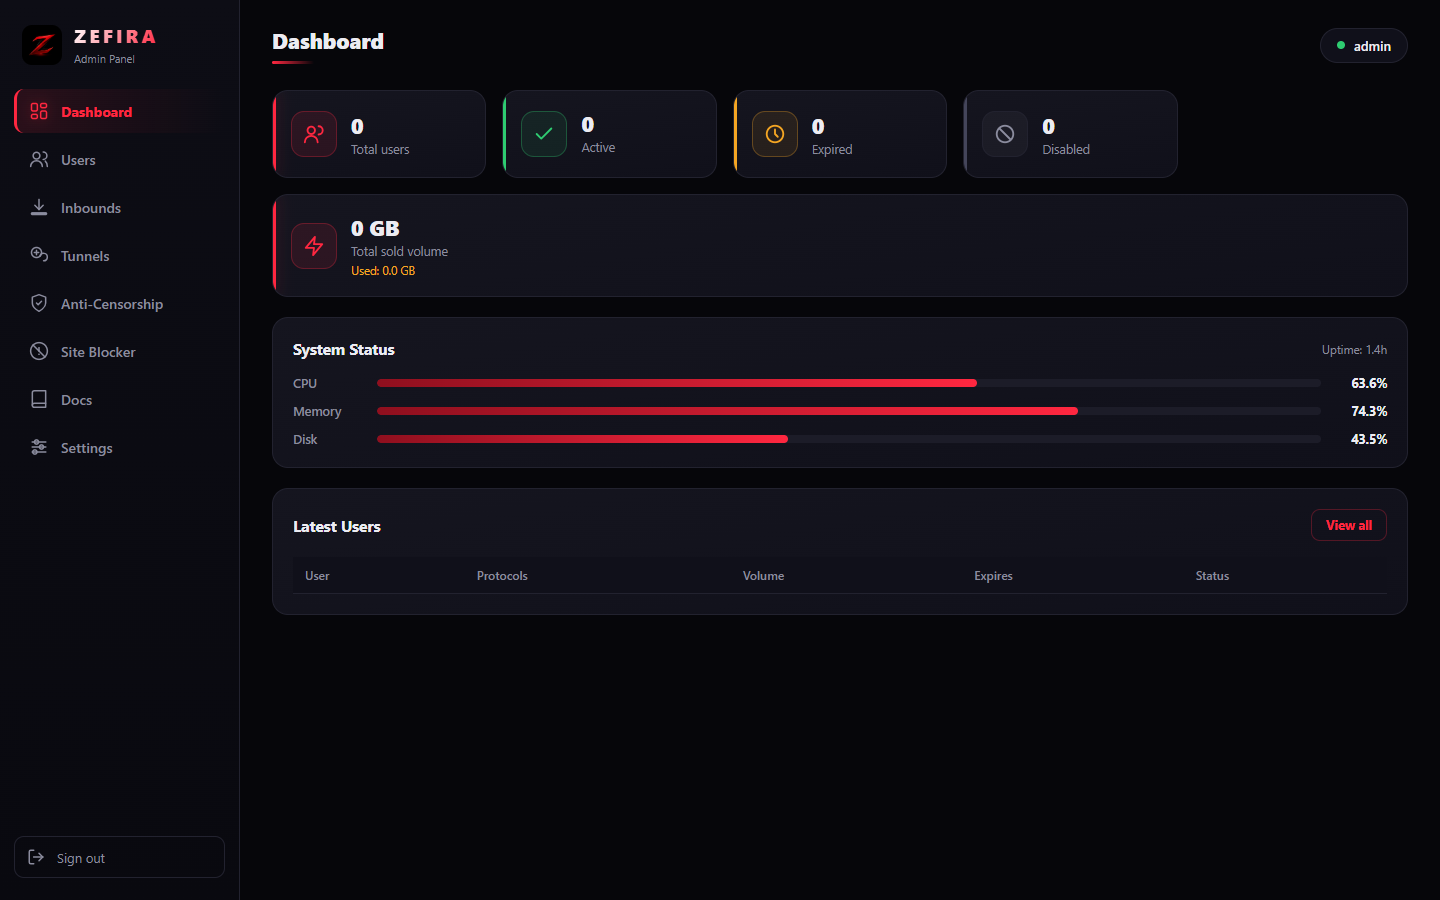
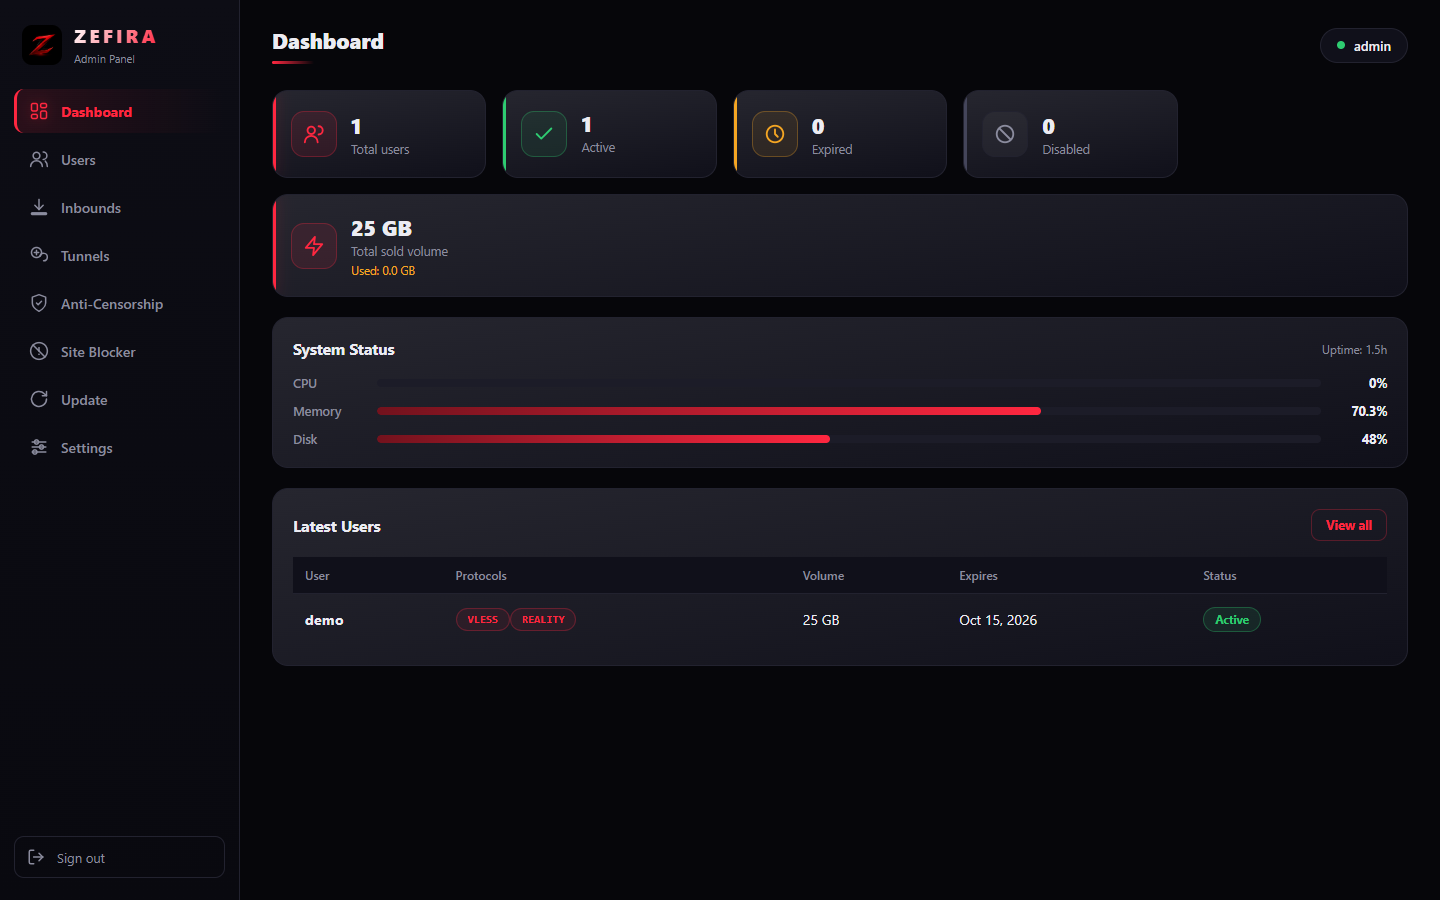
docs: changelog page, fresh screenshots, full refresh

diff --git a/docs/changelog.html b/docs/changelog.html
@@ -1,0 +1,92 @@
+<!DOCTYPE html>
+<html lang="en">
+<head>
+<meta charset="UTF-8">
+<meta name="viewport" content="width=device-width, initial-scale=1.0">
+<meta http-equiv="Content-Security-Policy" content="default-src 'self'; img-src 'self' data:; style-src 'self'; script-src 'self'; object-src 'none'; base-uri 'none'; frame-ancestors 'none'">
+<meta name="referrer" content="no-referrer">
+<title>Changelog — Zefira Docs</title>
+<link rel="icon" href="assets/logo.png">
+<link rel="stylesheet" href="assets/style.css?v=3">
+</head>
+<body>
+<header class="topbar">
+  <button id="nav-toggle" aria-label="Menu">☰</button>
+  <a class="brand" href="index.html"><img src="assets/logo.png" alt="Zefira"><b>ZEF<span>IRA</span></b></a>
+  <span class="ver">Docs</span>
+  <span class="spacer"></span>
+  <a class="gh" href="https://github.com/mrlurix/zefira-panel" target="_blank" rel="noopener">GitHub ↗</a>
+</header>
+<div class="layout">
+<nav class="sidebar" id="sidebar">
+  <input id="nav-search" type="search" placeholder="Search docs…">
+  <div class="nav-group">Getting Started</div>
+  <a href="index.html">← Home</a>
+  <a href="installation.html">Installation</a>
+  <div class="nav-group">Panel Guide</div>
+  <a href="user-guide.html">Users &amp; Plans</a>
+  <a href="subscription.html">Subscriptions &amp; Clients</a>
+  <div class="nav-group">Server</div>
+  <a href="configuration.html">Configuration</a>
+  <a href="security.html">Security</a>
+  <div class="nav-group">Reference</div>
+  <a href="api.html">API</a>
+  <a href="faq.html">FAQ &amp; Troubleshooting</a>
+  <a href="changelog.html">Changelog</a>
+</nav>
+<main class="content">
+
+<h1><span class="z">C</span>hangelog</h1>
+<p class="subtitle">What changed recently. Full commit-by-commit history lives on <a href="https://github.com/mrlurix/zefira-panel/commits/main">GitHub</a> — and the panel itself shows incoming changes under <b>Update</b> before you upgrade.</p>
+
+<h2 id="2026-09-15">2026-09-15 — One-click updates + safer updater</h2>
+<ul>
+  <li><b>Update section</b> in the left menu (above Settings): compares your server with GitHub, shows the exact incoming changelog, then pulls + reinstalls + restarts on password confirm.</li>
+  <li>Updater pulls from the same source it compared against, refuses on local changes, serializes runs, audits every step.</li>
+  <li>Extending an expired account now counts from today instead of leaving it expired.</li>
+  <li>Legacy admin usernames are normalized at startup (anti-lockout heal).</li>
+</ul>
+
+<h2 id="2026-09-14">2026-09-14 — Full personalization</h2>
+<ul>
+  <li><b>Appearance &amp; Branding</b> card: accent/background/card colors via a live <code>/theme.css</code>, custom brand name everywhere, and a message pinned on all user dashboards.</li>
+  <li>Appearance is validated, backed up, and covered by pentest checks (public endpoint leaks nothing).</li>
+</ul>
+
+<h2 id="2026-09-13">2026-09-13 — User dashboard</h2>
+<ul>
+  <li>Opening a subscription link in a <b>browser</b> shows a personal dashboard: status, usage ring, days left, <b>last active time + IP</b>, one-tap app imports, per-protocol links, WireGuard/OpenVPN configs, QR and app downloads.</li>
+  <li>VPN clients still get raw bytes (User-Agent detection, unknown defaults to raw); expired/disabled users get 404 in both modes.</li>
+  <li>Subscription link remarks show the plain username.</li>
+</ul>
+
+<h2 id="2026-09-07">2026-09-07 — Locks &amp; gates</h2>
+<ul>
+  <li>Missing <b>Edit user</b> button wired up (note, volume, expiry, device limit, reset usage).</li>
+  <li>2FA enable/disable and backup download now need your <b>password</b>, not just a session.</li>
+  <li>Cross-server restores safely drop undecryptable 2FA (<code>tfa_dropped</code>) instead of locking you out; junk protocols are sanitized.</li>
+  <li>Installer enforces the panel password policy (10+ chars, letters + digits).</li>
+  <li>Python 3.14 silent-annotation misroute fixed + a guard script that checks all 53 routes.</li>
+</ul>
+
+<h2 id="2026-09-06">2026-09-06 — Installer, SSL &amp; docs site</h2>
+<ul>
+  <li>Branded 7-step installer with a dedicated Nginx + Let's Encrypt step and quoted secrets.</li>
+  <li>One-click SSL issue/renew from Settings.</li>
+  <li>This documentation site: landing page, Ctrl+K search, changelog, responsive red-black theme on GitHub Pages.</li>
+</ul>
+
+<h2 id="earlier">Earlier — Security hardening waves</h2>
+<ul>
+  <li>Logout kills sessions server-side, proxy-aware Secure cookies + HSTS, 64&nbsp;MB restore allowance, lockout-DoS resistant limits, IPv6-safe IP blocking, first-run hardening.</li>
+  <li>External MySQL/PostgreSQL crash fixed, dialect-agnostic migrations, DB drivers bundled.</li>
+  <li>CSP-safe templates (dead buttons and inline styles removed), quoted <code>.env</code> secrets, DB input validation.</li>
+  <li>Pentest suite grown to <b>91/91 passing</b> checks.</li>
+</ul>
+
+</main>
+</div>
+<footer>Zefira · MIT License · <a href="https://github.com/mrlurix/zefira-panel">github.com/mrlurix/zefira-panel</a></footer>
+<script src="assets/docs.js?v=3"></script>
+</body>
+</html>

diff --git a/docs/subscription.html b/docs/subscription.html
@@ -32,6 +32,7 @@
   <div class="nav-group">Reference</div>
   <a href="api.html">API</a>
   <a href="faq.html">FAQ &amp; Troubleshooting</a>
+  <a href="changelog.html">Changelog</a>
 </nav>
 <main class="content">
 
@@ -50,7 +51,7 @@
 </ul>
 
 <h2 id="user-dashboard-page">User dashboard page</h2>
-<p>When the subscription link is opened in a <b>browser</b>, the user gets a personal dashboard instead of raw text: username and status, volume bar with used/total, days left and expiry, one-tap import buttons (v2RayNG, Clash, sing-box), copyable per-protocol links, WireGuard/OpenVPN configs, QR code and recommended apps per platform.</p>
+<p>When the subscription link is opened in a <b>browser</b>, the user gets a personal dashboard instead of raw text: username and status, usage ring with used/total, days left and expiry, <b>last active time and IP</b> (every subscription fetch is recorded, so a shared link shows up as an unfamiliar IP), one-tap import buttons (v2RayNG, Clash, sing-box), copyable per-protocol links, WireGuard/OpenVPN configs, QR code and recommended apps per platform.</p>
 <p>VPN clients (v2rayNG, Clash, Streisand…) always receive raw subscription bytes — detection is by User-Agent, and anything unknown defaults to raw so no client ever breaks. Expired, disabled or out-of-volume users get <code>404</code> in both modes.</p>
 
 <h2 id="formats">Formats</h2>

diff --git a/docs/index.html b/docs/index.html
@@ -62,6 +62,8 @@
     <h2 id="take-a-look">Take a look</h2>
     <div class="shots">
       <figure><img src="assets/shot-dashboard.png" alt="Zefira dashboard" loading="lazy"><figcaption>Dashboard</figcaption></figure>
+      <figure><img src="assets/shot-user-dashboard.png" alt="User subscription dashboard" loading="lazy"><figcaption>User dashboard</figcaption></figure>
+      <figure><img src="assets/shot-appearance.png" alt="Appearance settings" loading="lazy"><figcaption>Personalization</figcaption></figure>
       <figure><img src="assets/shot-login.png" alt="Zefira login" loading="lazy"><figcaption>Login</figcaption></figure>
     </div>
   </section>

diff --git a/docs/api.html b/docs/api.html
@@ -32,6 +32,7 @@
   <div class="nav-group">Reference</div>
   <a href="api.html">API</a>
   <a href="faq.html">FAQ &amp; Troubleshooting</a>
+  <a href="changelog.html">Changelog</a>
 </nav>
 <main class="content">
 

diff --git a/docs/configuration.html b/docs/configuration.html
@@ -32,6 +32,7 @@
   <div class="nav-group">Reference</div>
   <a href="api.html">API</a>
   <a href="faq.html">FAQ &amp; Troubleshooting</a>
+  <a href="changelog.html">Changelog</a>
 </nav>
 <main class="content">
 

diff --git a/docs/faq.html b/docs/faq.html
@@ -32,6 +32,7 @@
   <div class="nav-group">Reference</div>
   <a href="api.html">API</a>
   <a href="faq.html">FAQ &amp; Troubleshooting</a>
+  <a href="changelog.html">Changelog</a>
 </nav>
 <main class="content">
 

diff --git a/docs/installation.html b/docs/installation.html
@@ -32,6 +32,7 @@
   <div class="nav-group">Reference</div>
   <a href="api.html">API</a>
   <a href="faq.html">FAQ &amp; Troubleshooting</a>
+  <a href="changelog.html">Changelog</a>
 </nav>
 <main class="content">
 

diff --git a/docs/security.html b/docs/security.html
@@ -32,6 +32,7 @@
   <div class="nav-group">Reference</div>
   <a href="api.html">API</a>
   <a href="faq.html">FAQ &amp; Troubleshooting</a>
+  <a href="changelog.html">Changelog</a>
 </nav>
 <main class="content">
 

diff --git a/docs/user-guide.html b/docs/user-guide.html
@@ -32,6 +32,7 @@
   <div class="nav-group">Reference</div>
   <a href="api.html">API</a>
   <a href="faq.html">FAQ &amp; Troubleshooting</a>
+  <a href="changelog.html">Changelog</a>
 </nav>
 <main class="content">
 

diff --git a/README.md b/README.md
@@ -12,6 +12,8 @@ Built with FastAPI + SQLite. No Docker required, just Python.
 
 ![Login](screenshots/screenshot-login.png)
 ![Dashboard](screenshots/screenshot-dashboard.png)
+![User dashboard](screenshots/screenshot-user-dashboard.png)
+![Appearance settings](screenshots/screenshot-appearance.png)
 
 ### Install on a server (one line)
 
